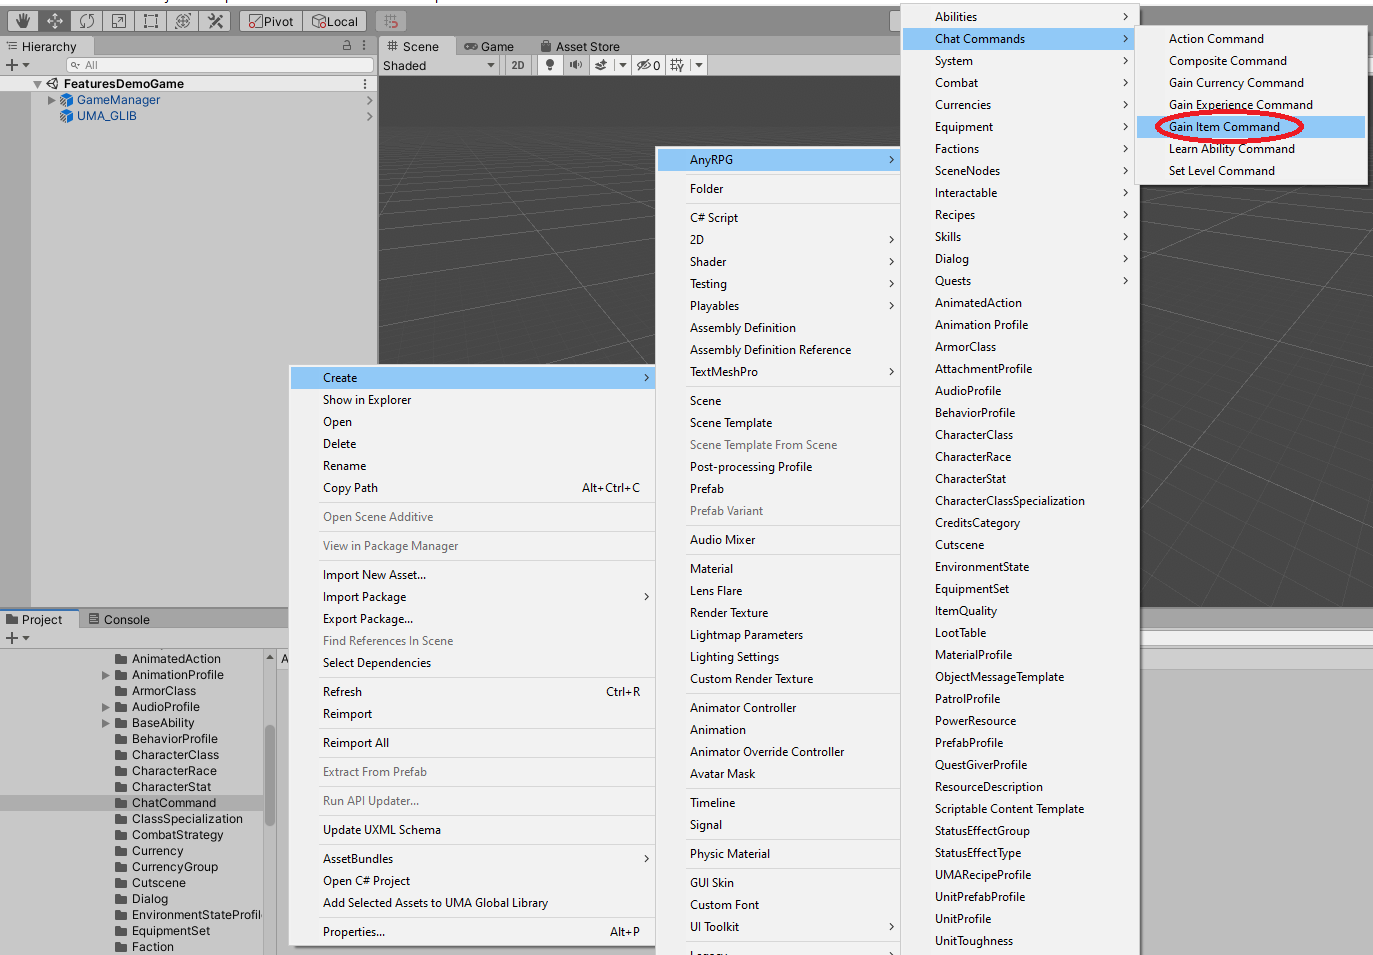
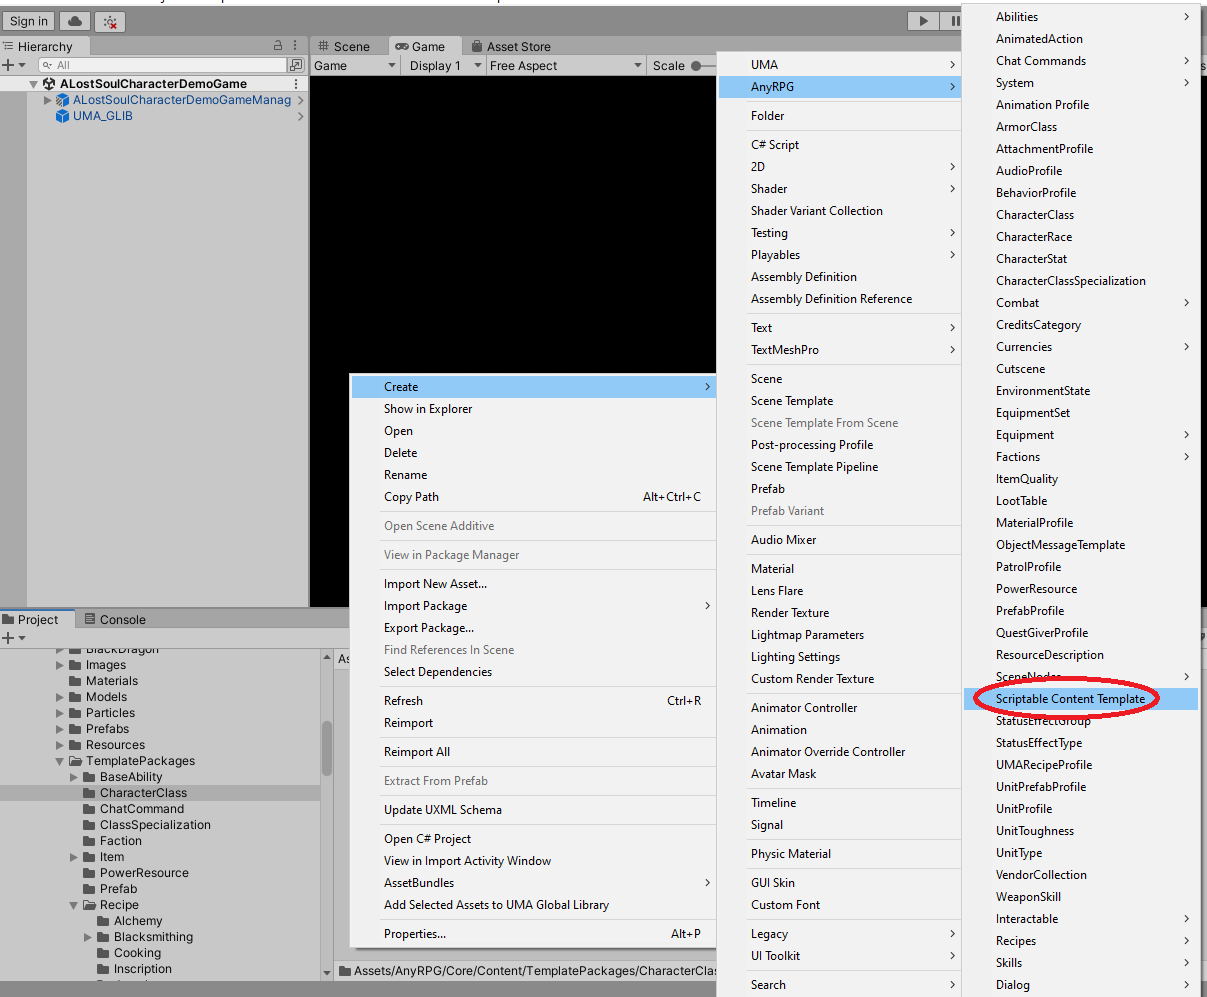
GitBook: [#54] add scriptable content template documentation

diff --git a/scriptable-objects/scriptable-content-template.md b/scriptable-objects/scriptable-content-template.md
@@ -1,5 +1,26 @@
+---
+description: >-
+  A scriptable content template is a list of scriptable objects, prefabs, and
+  other scriptable content templates that can be installed in a new game using a
+  wizard to save time.
+---
+
 # Scriptable Content Template
 
-{% hint style="info" %}
-Coming Soon
-{% endhint %}
+## Creation
+
+Unlike most scriptable object, a scriptable object template itself is not loaded into memory because it contains configuration information for installing content.  This means it can be created in any folder and should definitely not be located in a _Resources_ folder or any subfolder of a resources folder. To create one, setup a folder that is not a child of a _Resources_ folder right click.  Choose _Create > AnyRPG > Scriptable Content Template_.
+
+![](<../.gitbook/assets/image (111).png>)
+
+## Properties
+
+| Name         | Description                                                                                                                                                                                                                                                                            |
+| ------------ | -------------------------------------------------------------------------------------------------------------------------------------------------------------------------------------------------------------------------------------------------------------------------------------- |
+| Resources    | A list of links to scriptable objects that will be installed in a game when the wizard is used to install this template.  If the word 'Template' exists in their file name, it will be removed when they are installed.                                                                |
+| Prefabs      | A list of links to prefabs that will be installed in a game when the wizard is used to install this template.  If the word 'Template' exists in their file name, it will be removed when they are installed.                                                                           |
+| Dependencies | A list of links to other scriptable content templates that will be installed in a game when the wizard is used to install this template.  The use of dependencies is a convenience feature to allow re-using common sets of scriptable objects and prefabs between multiple templates. |
+
+## Next Steps
+
+* Use the _Template Content Wizard_, found under the _Menu Tools > AnyRPG > Wizard > Template Content Wizard_ to install template content in a new game.

diff --git a/scriptable-objects/items/quest-start-item.md b/scriptable-objects/items/quest-start-item.md
@@ -8,7 +8,7 @@ description: A quest start item is an item that can start a quest when used.
 
 To create a quest start item, find (or create) the _GameName/Resources/GameName/Item_ folder (or any subfolder) in the project tab and right click.  Choose _Create > AnyRPG > Inventory > Items > QuestStartItem_.
 
-![](<../../.gitbook/assets/image (2).png>)
+![](<../../.gitbook/assets/image (2) (2).png>)
 
 ## Properties
 

diff --git a/scriptable-objects/chat-commands/gain-item-command.md b/scriptable-objects/chat-commands/gain-item-command.md
@@ -10,7 +10,7 @@ description: Gain item commands add items to the players inventory.
 
 To create a gain item command, find (or create) the _GameName/Resources/GameName/ChatCommand_ folder in the project tab and right click. Choose _Create > AnyRPG > Chat Commands > Gain Item Command_.
 
-![](<../../.gitbook/assets/image (111).png>)
+![](<../../.gitbook/assets/image (111) (1).png>)
 
 ## Properties
 

diff --git a/scriptable-objects/items/armor.md b/scriptable-objects/items/armor.md
@@ -10,7 +10,7 @@ description: >-
 
 To create a faction, find (or create) the _GameName/Resources/GameName/Item/Equipment_ folder (or any subfolder of that folder) in the project tab and right click.  Choose _Create > AnyRPG > Inventory > Equipment > Armor_.
 
-![](<../../.gitbook/assets/image (4) (1).png>)
+![](<../../.gitbook/assets/image (4).png>)
 
 ## Properties
 

diff --git a/scriptable-objects/environment-state-profile.md b/scriptable-objects/environment-state-profile.md
@@ -10,7 +10,7 @@ description: >-
 
 To create an environment state profile, find (or create) the _GameName/Resources/GameName/EnvironmentStateProfile_ folder in the project tab and right click.  Choose _Create > AnyRPG > EnvironmentState_.
 
-![](<../.gitbook/assets/image (129) (1).png>)
+![](<../.gitbook/assets/image (129).png>)
 
 ## Properties
 

diff --git a/scriptable-objects/items/bag.md b/scriptable-objects/items/bag.md
@@ -10,7 +10,7 @@ description: >-
 
 To create a bag, find (or create) the _GameName/Resources/GameName/Item_ folder (or any subfolder) in the project tab and right click.  Choose _Create > AnyRPG > Inventory > Items > Bag_.
 
-![](<../../.gitbook/assets/image (4) (1) (2).png>)
+![](<../../.gitbook/assets/image (4) (1).png>)
 
 ## Properties
 

diff --git a/scriptable-objects/resource-description.md b/scriptable-objects/resource-description.md
@@ -11,7 +11,7 @@ description: >-
 
 To create a resource description, find (or create) the _GameName/Resources/GameName/ResourceDescription_ folder in the project tab and right click.  Choose _Create > AnyRPG > ResourceDescription_.
 
-![](<../.gitbook/assets/image (98).png>)
+![](../.gitbook/assets/image.png)
 
 ## Properties
 

diff --git a/scriptable-objects/prefab-profile.md b/scriptable-objects/prefab-profile.md
@@ -10,7 +10,7 @@ description: >-
 
 To create a prefab profile, find (or create) the _GameName/Resources/GameName/PrefabProfile_ folder in the project tab and right click.  Choose _Create > AnyRPG > PrefabProfile_.
 
-![](<../.gitbook/assets/image (1).png>)
+![](<../.gitbook/assets/image (1) (3).png>)
 
 ## Properties
 

diff --git a/scriptable-objects/scene-node.md b/scriptable-objects/scene-node.md
@@ -10,7 +10,7 @@ description: >-
 
 To create a scene node, find (or create) the _GameName/Resources/GameName/SceneNode_ folder in the project tab and right click.  Choose _Create > AnyRPG > SceneNodes > SceneNode_.
 
-![](<../.gitbook/assets/image (4).png>)
+![](<../.gitbook/assets/image (1).png>)
 
 ## Properties
 

diff --git a/scriptable-objects/items/recipe.md b/scriptable-objects/items/recipe.md
@@ -10,7 +10,7 @@ description: >-
 
 To create a recipe, find (or create) the _GameName/Resources/GameName/Recipe_ folder in the project tab and right click.  Choose _Create > AnyRPG > Recipes > Recipe_.
 
-![](<../../.gitbook/assets/image (129).png>)
+![](<../../.gitbook/assets/image (114).png>)
 
 ## Properties
 

diff --git a/scriptable-objects/cutscene.md b/scriptable-objects/cutscene.md
@@ -11,7 +11,7 @@ description: >-
 
 To create a cutscene, find (or create) the _GameName/Resources/GameName/Cutscene_ folder in the project tab and right click.  Choose _Create > AnyRPG > Cutscene_.
 
-![](<../.gitbook/assets/image (114).png>)
+![](<../.gitbook/assets/image (114) (1).png>)
 
 ## Properties
 

diff --git a/scriptable-objects/faction.md b/scriptable-objects/faction.md
@@ -10,7 +10,7 @@ description: >-
 
 To create a faction, find (or create) the _GameName/Resources/GameName/Faction_ folder in the project tab and right click.  Choose _Create > AnyRPG > Factions > Faction_.
 
-![](<../.gitbook/assets/image (98) (2).png>)
+![](<../.gitbook/assets/image (98).png>)
 
 
 
